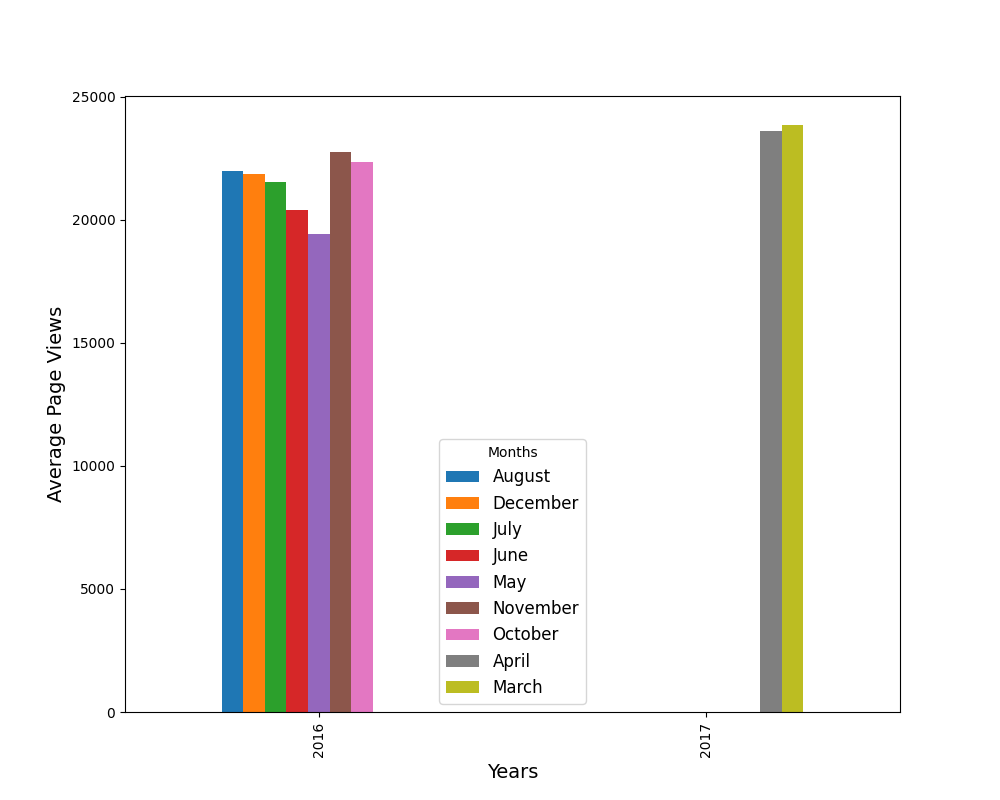
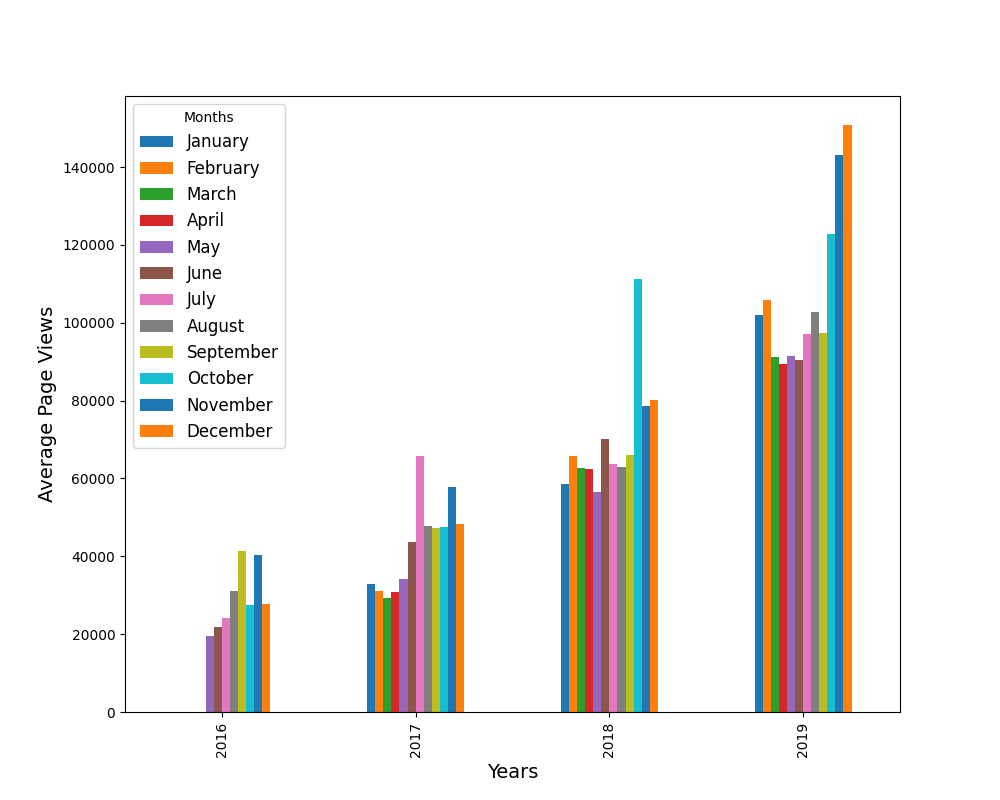
Fix data filtering to correctly

diff --git a/time_series_visualizer.py b/time_series_visualizer.py
@@ -9,7 +9,8 @@ df = pd.read_csv("fcc-forum-pageviews.csv", parse_dates=['date'], index_col='dat
 
 # Clean data
 lower_quantile = df['value'].quantile(0.025)
-upper_quantile = df['value'].quantile(0.075)
+upper_quantile = df['value'].quantile(0.975)
+
 #keep only the rows where the value is between the 2.5th and 97.5th percentiles.
 df_cleaned = df[(df['value'] >= lower_quantile) & (df['value'] <= upper_quantile)]
 
@@ -33,35 +34,26 @@ def draw_line_plot():
 
 def draw_bar_plot():
     # Copy and modify data for monthly bar plot
-    df_bar = df_cleaned.copy() #Creates a copy of the cleaned DataFrame to avoid modifying the original data.
+    df_bar = df_cleaned.copy().reset_index()  # Reset index to get 'date' as a column
 
-    #Extract year and month from the index
+    # Extract year and month from date column
+    df_bar['year'] = df_bar['date'].dt.year
+    df_bar['month'] = df_bar['date'].dt.strftime('%B')  # Full month name
 
-    df_bar['year']=df_bar.index.year
-    df_bar['month']=df_bar.index.month_name()
-
-    #groupby year and month and then calculate the mean
-
-    df_bar=df_bar.groupby(['year', 'month'])['value'].mean().reset_index()
-
-    #Define the order of month for the plot
-
+    # Define the order of months for the plot
     month_order = [
         'January', 'February', 'March', 'April', 'May', 'June',
         'July', 'August', 'September', 'October', 'November', 'December'
     ]
 
-    # Ensure all months are included in the DataFrame
+    # Convert 'month' column to categorical type
     df_bar['month'] = pd.Categorical(df_bar['month'], categories=month_order, ordered=True)
 
-    # Pivot the data to create a wide format for plotting
-
-    df_bar = df_bar.pivot(index='year', columns='month', values='value')
+    # Group by year and month, then calculate the mean
+    df_bar = df_bar.groupby(['year', 'month'])['value'].mean().unstack()
 
     # Draw bar plot
     fig, ax = plt.subplots(figsize=(10, 8))
-
-    #plot the bar chart
     df_bar.plot(kind='bar', ax=ax)
 
     ax.set_xlabel("Years", fontsize=14)
